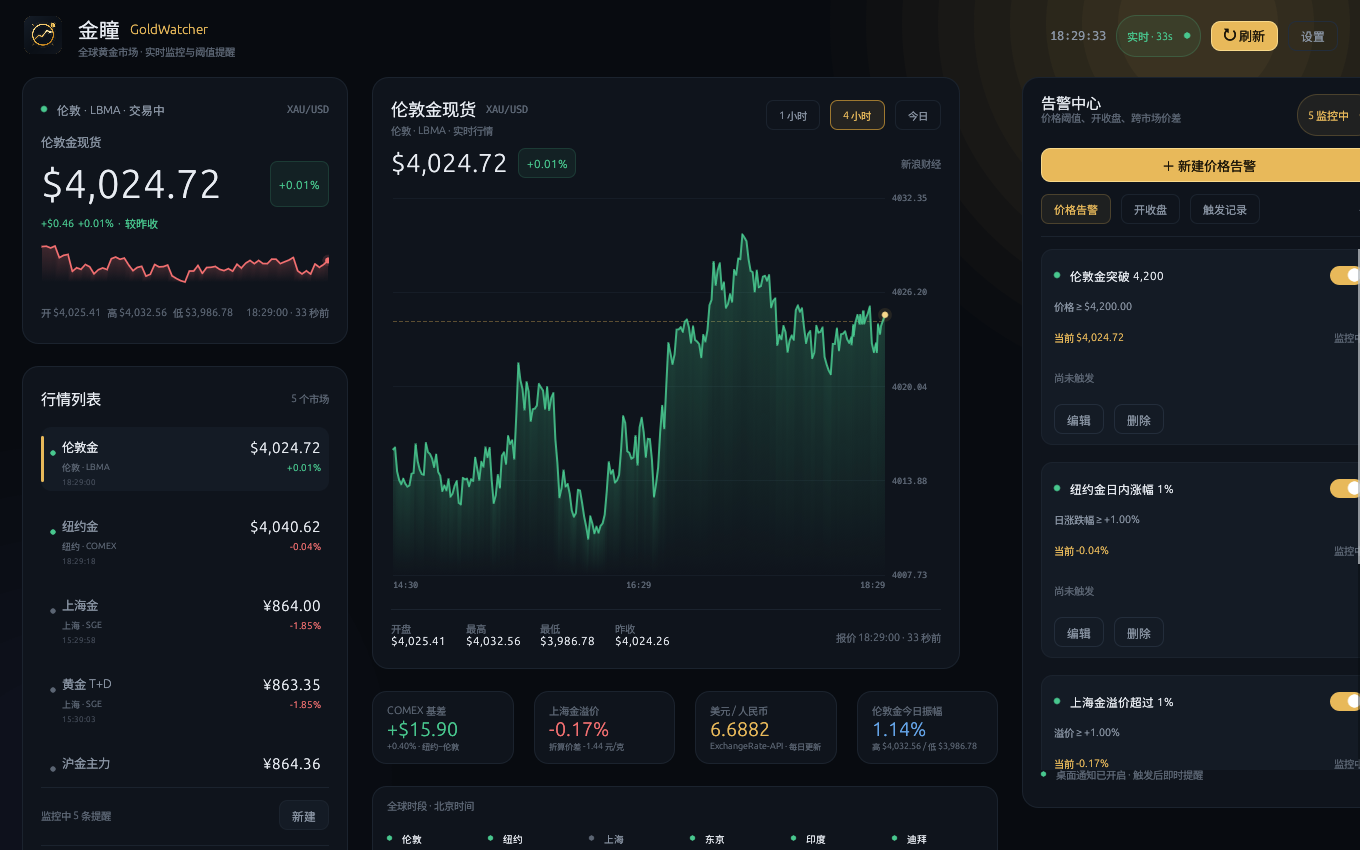
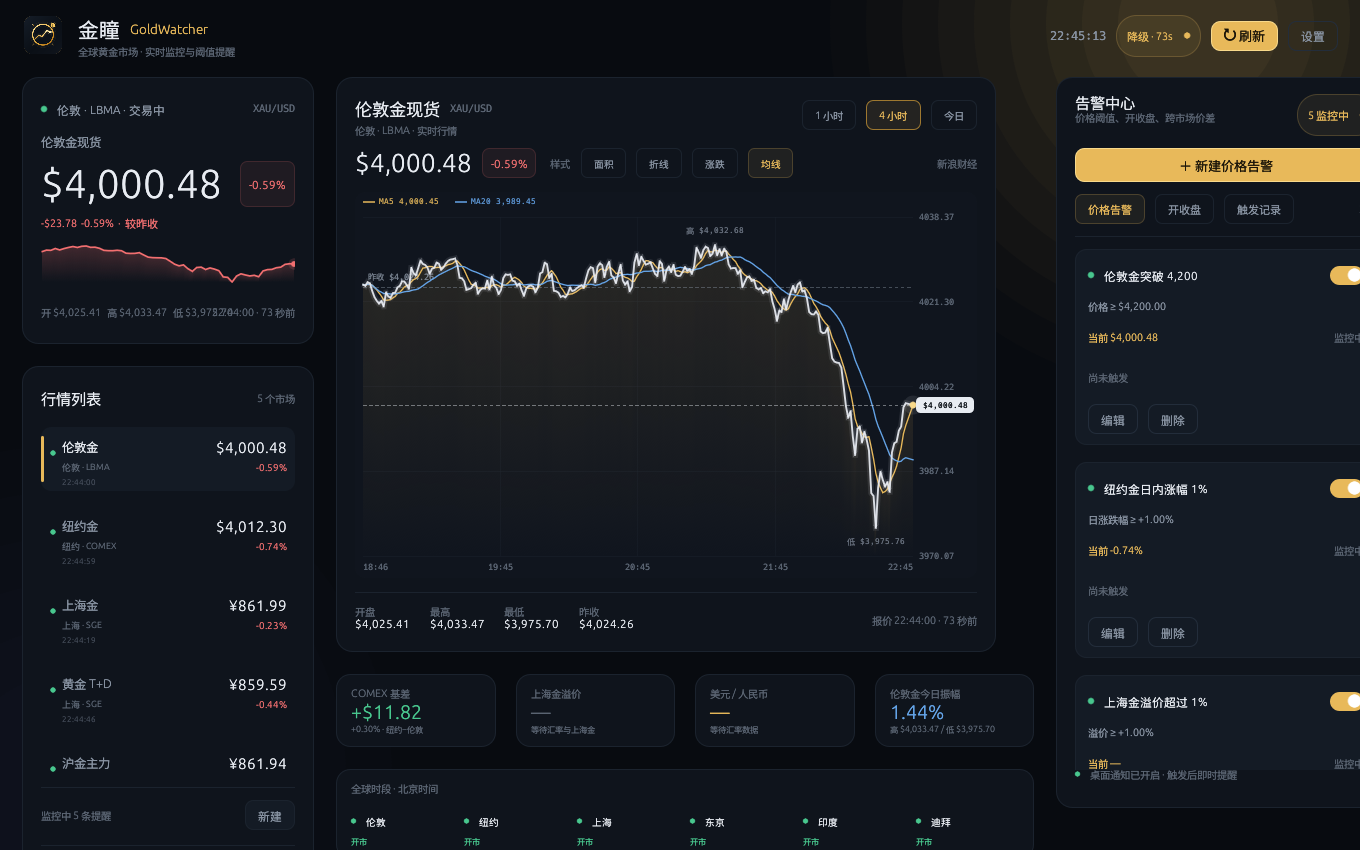
chore: 发布 v0.1.1 图表与布局优化

diff --git a/README.md b/README.md
@@ -13,7 +13,7 @@
 
 ## 下载
 
-- [GitHub Releases](https://github.com/coldneight/goldwatcher/releases) 提供 Linux x86_64 与 Windows x86_64 的 v0.1.0 压缩包。
+- [GitHub Releases](https://github.com/coldneight/goldwatcher/releases) 提供 Linux x86_64 与 Windows x86_64 的 v0.1.1 压缩包。
 - Linux 包内附 `install.sh`，Windows 包内附 `install.ps1`，用于创建桌面快捷方式。
 - 也可以从源码构建，见下文。
 
@@ -21,7 +21,10 @@
 
 - **五个黄金市场实时行情**：伦敦金 XAU/USD、COMEX 黄金 GC、上海金 Au99.99、黄金 T+D、沪金主力
 - **跨市场指标**：COMEX 基差、上海金溢价（按 USD/CNY 折算）、美元/人民币汇率、伦敦金今日振幅
-- **走势图**：今日分钟走势、1 小时 / 4 小时 / 今日窗口、昨收虚线、十字光标
+- **四种走势图样式**：面积、折线、涨跌基准、5/20 分钟均线，可随时切换并持久化
+- **股票式图表细节**：右侧价格轴、现价标签、昨收虚线、高低点标注、时间网格、十字光标
+- **响应式布局**：宽屏三栏、中等宽度双栏、窄屏/竖屏单栏堆叠；图表按宽高比约束，不会被压扁
+- **走势窗口**：1 小时 / 4 小时 / 今日
 - **价格告警**：任一市场「价格」或「日涨跌幅」高于 / 低于阈值
 - **价差告警**：COMEX 基差、上海金溢价、USD/CNY 汇率
 - **开收盘提醒**：伦敦、纽约、上海日盘 / 夜盘、东京日盘 / 夜盘、印度、迪拜，可选择开盘、收盘或两者

diff --git a/RELEASE_NOTES_v0.1.1.md b/RELEASE_NOTES_v0.1.1.md
@@ -1,0 +1,41 @@
+# 金瞳 GoldWatcher v0.1.1
+
+本次更新集中优化图表观感与不同分辨率下的布局。
+
+## 图表
+
+- 新增四种可切换、会持久化的样式：
+  - **面积**：渐变面积，突出趋势
+  - **折线**：纯折线，减少视觉干扰
+  - **涨跌**：以昨收为基准，涨绿跌红分段填充
+  - **均线**：价格线叠加 5 / 20 分钟均线
+- 右侧价格轴、当前价标签、昨收虚线、窗口内高低点标注
+- 时间轴网格与十字光标，悬浮显示时间、价格、涨跌幅和均线值
+- 图表高度按窗口宽高比约束，避免超宽或窄窗口下被压扁
+
+## 布局
+
+- 宽屏三栏：行情列表 / 图表 / 告警中心
+- 中等宽度双栏：告警中心改为抽屉，图表占满剩余宽度
+- 窄屏与竖屏单栏堆叠：图表优先展示，其余内容纵向滚动
+- 最小窗口尺寸调整为 920 × 640
+
+## 下载
+
+| 平台 | 文件 |
+|---|---|
+| Linux x86_64 | `goldwatcher-v0.1.1-linux-x86_64.tar.gz` |
+| Windows x86_64 | `goldwatcher-v0.1.1-windows-x86_64.zip` |
+
+SHA-256 校验值见 `SHA256SUMS`。
+
+## 验证
+
+- `cargo test`：17 项测试全部通过
+- `cargo clippy --all-targets -- -D warnings`：通过
+- Linux 与 Windows GitHub Actions 构建通过
+- 已在 1360×850、1180×760、920×1000、1360×640 等尺寸下验证布局
+
+## 数据说明
+
+行情来自免费公开接口，可能延迟、限流或中断；交易时段为北京时间近似值。本项目仅供信息参考，不构成投资建议。

diff --git a/CHANGELOG.md b/CHANGELOG.md
@@ -1,5 +1,16 @@
 # Changelog
 
+## v0.1.1 — 2026-10-23
+
+### 优化
+
+- 新增面积、折线、涨跌基准、5/20 分钟均线四种图表样式
+- 图表增加右侧价格轴、现价标签、昨收虚线、高低点标注与十字光标
+- 三栏 / 双栏 / 单栏堆叠响应式布局
+- 窄屏告警中心改为抽屉，优先保证图表宽度
+- 图表高度按窗口宽高比约束，低高度窗口自动切换为可滚动布局
+- 最小窗口尺寸调整为 920 × 640
+
 ## v0.1.0 — 2026-10-23
 
 首个公开版本。
